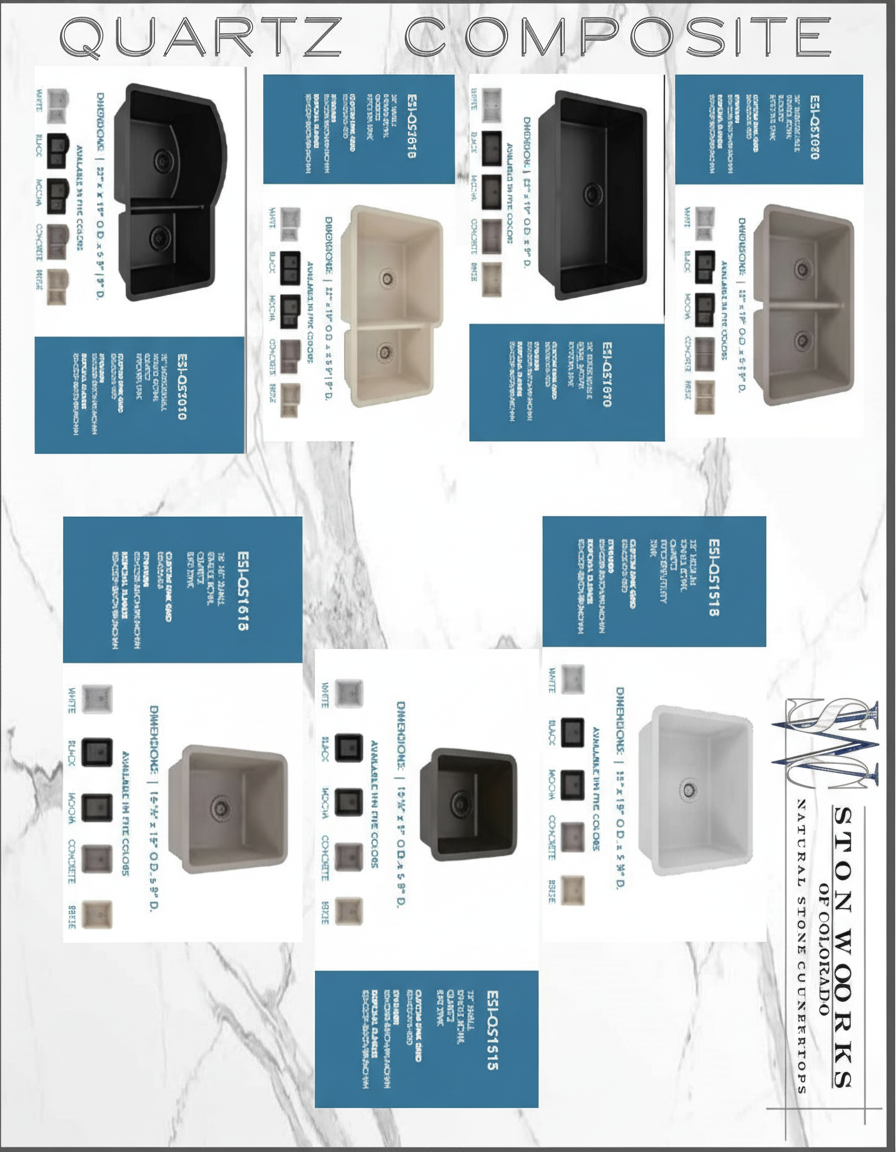
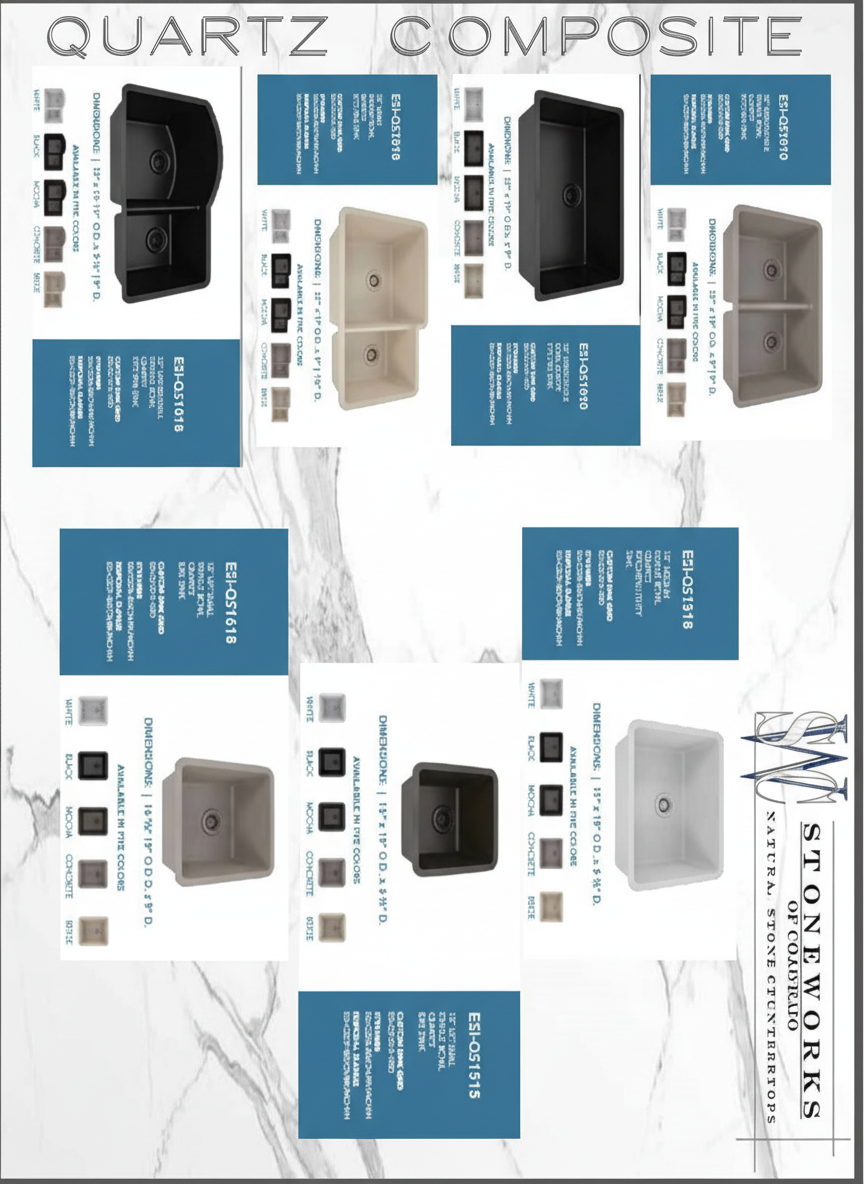
Changes

diff --git a/src/pages/SinkStyles.tsx b/src/pages/SinkStyles.tsx
@@ -14,7 +14,7 @@ const SinkStyles = () => {
 
   const pages = [
     '/images/documents/sink-styles-1.jpg',
-    '/images/documents/sink-styles-2.jpg',
+    '/images/documents/sink-styles-2-rotated.jpg',
     '/images/documents/sink-styles-3.jpg',
   ];
 
